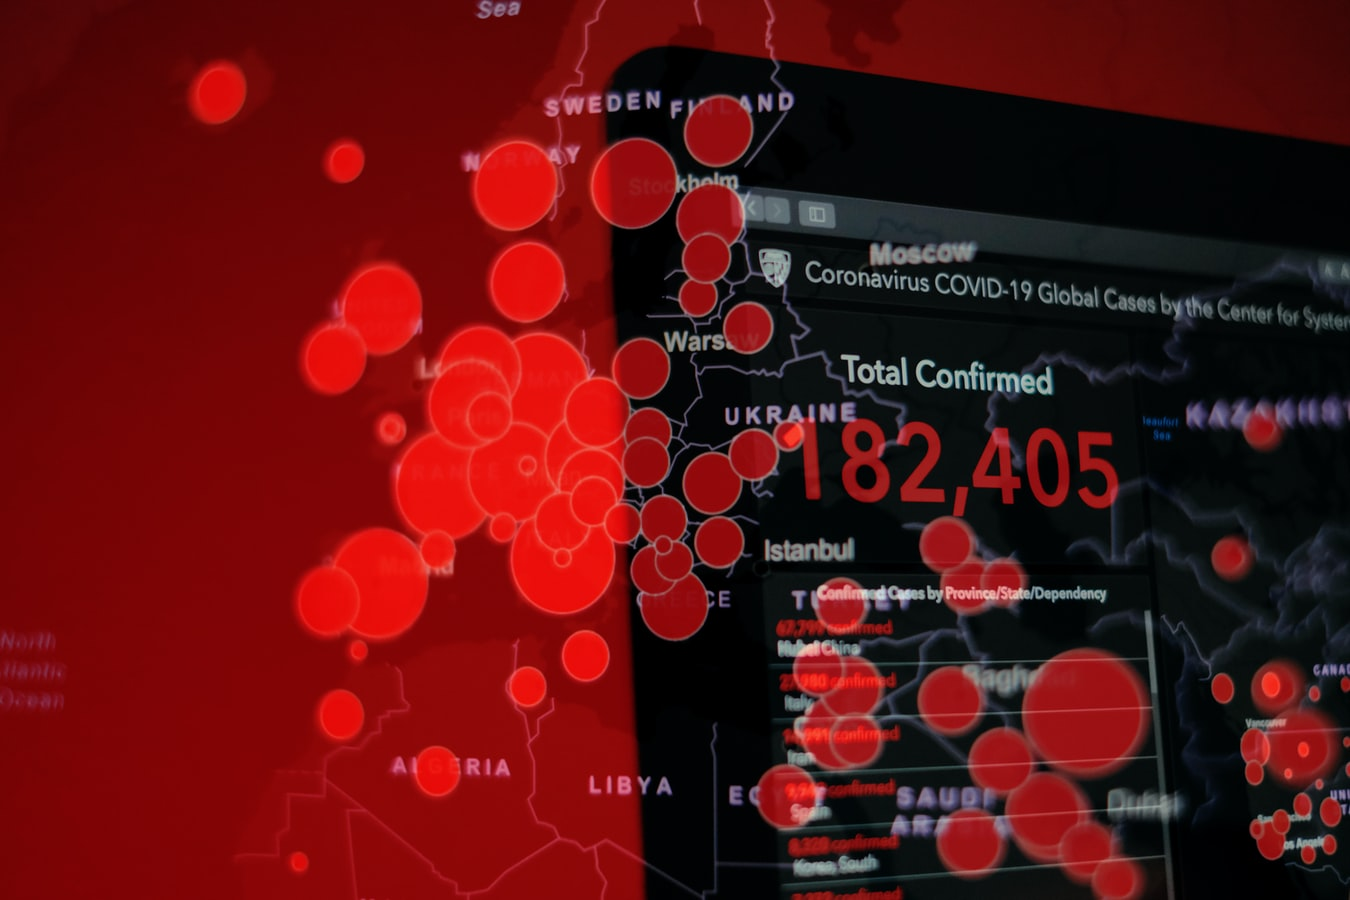
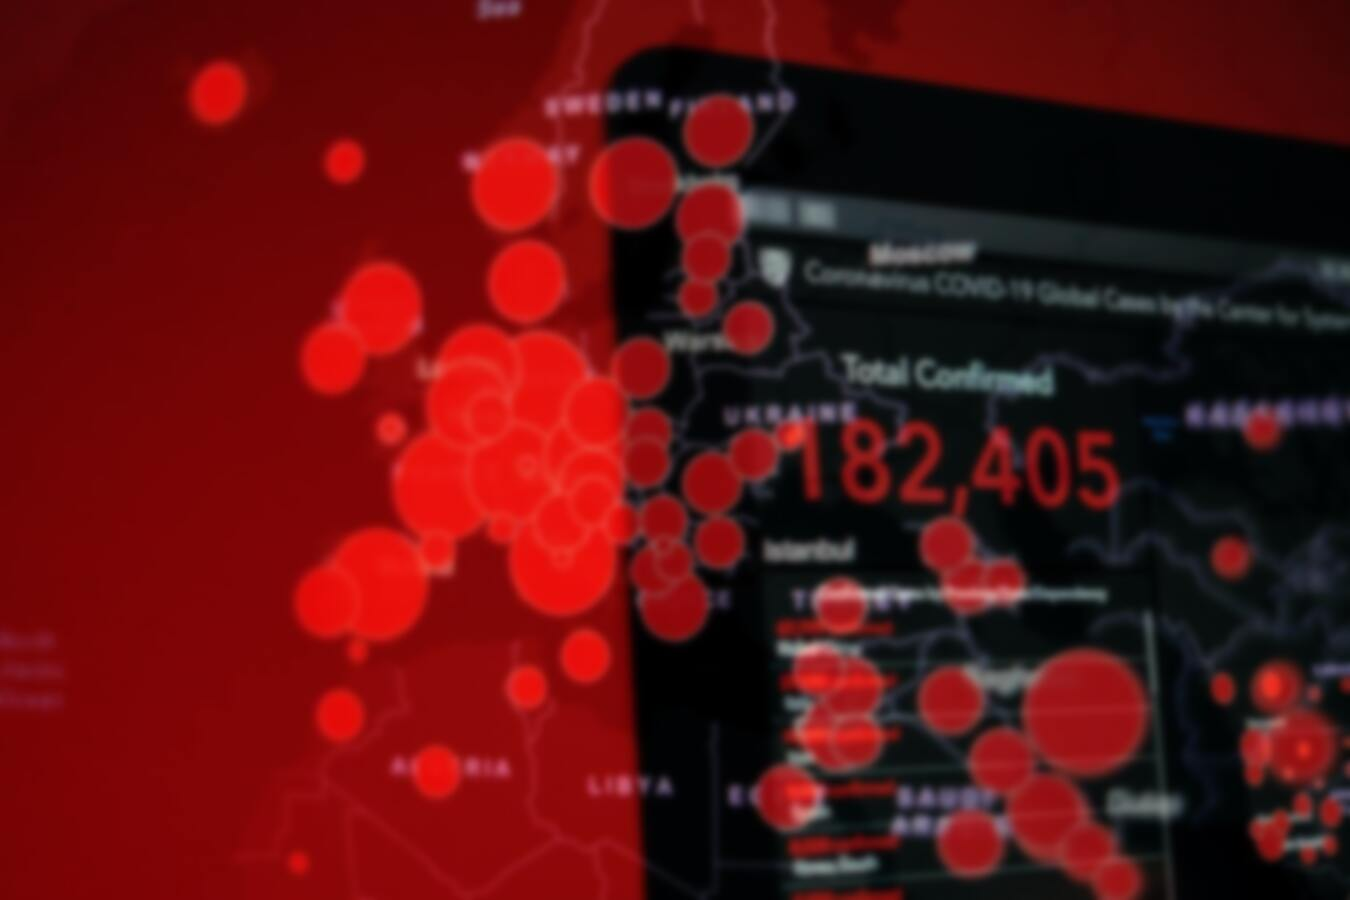
done home page

diff --git a/static/styles/home.css b/static/styles/home.css
@@ -2,10 +2,9 @@
     height: 100%;
 }
 
-
 .bg-img {
   
-
+  background-image: url("../pictures/covid background 5.jpg");
   min-height: 1000px;
 
   background-position: center center;
@@ -14,10 +13,10 @@
   background-attachment: fixed;
   position: relative;
 
-  filter: blur(5px);
-  -webkit-filter: blur(5px);
+
 
 }
+
 
 
 .responsive {
@@ -25,12 +24,36 @@
   height: auto;
 }
 
+.nav_container {
+  position: absolute;
+  margin: 20px;
+  width: auto;
+  
+}
 
+.topnav {
+  margin-left: 1365px;
+  margin-top: 17px;
+  background-color: black;
+  overflow: hidden;
+  
+}
+
+
+.topnav a {
+  
+  font-family: 'Bebas Neue', cursive;
+  font-size: 70px;
+  color: white;
+  text-align: center;
+  padding: 35px 16px;
+  text-decoration:none;
+}
 
 .container{
-    position: relative;
-    text-align: center;
-    color: black;
+  position: relative;
+  text-align: center;
+  color: black;
 }
 
 .maintitle {
@@ -45,10 +68,39 @@
     color: white;
 }
 
-.mainheading {
-    font-size: 80px;
-    top:60%;
-    font-family: 'Bebas Neue', cursive;
-    margin: 0;
-    position: absolute;
+.medical_supps {
+  font-size: 120px;
+  font-family: 'Bebas Neue', cursive;
+  margin: 0;
+  position: absolute;
+  text-align: center;
+  top: 45%;
+  transform: translateY(-50%);
+  width: 100%;
+  color: white;
 }
+
+.ruhacks {
+  font-size: 120px;
+  font-family: 'Bebas Neue', cursive;
+  margin: 0;
+  position: absolute;
+  text-align: center;
+  top: 70%;
+  transform: translateY(-50%);
+  width: 100%;
+  color: white;
+}
+
+.names {
+  font-size: 120px;
+  font-family: 'Bebas Neue', cursive;
+  margin: 0;
+  position: absolute;
+  text-align: center;
+  top: 80%;
+  transform: translateY(-50%);
+  width: 100%;
+  color: white;
+}
+

diff --git a/templates/home.html b/templates/home.html
@@ -1,21 +1,36 @@
 <!DOCTYPE html>
 <html>
+
 <head>
     <meta charset="utf-8">
     <meta name="viewport" content="width=device-width, initial-scale=1, shrink-to-fit=no">
 
-    <link rel= "stylesheet" type= "text/css" href= "static/styles/home.css">
+    <link rel="stylesheet" type="text/css" href="{{ url_for('static',filename='styles/home.css') }}">
     <link href="https://fonts.googleapis.com/css2?family=Bebas+Neue&display=swap" rel="stylesheet">
 
 
 </head>
+
 <body>
 
+
+
+
     <div class="container">
-        <img src="static/pictures/covid background 5.jpg" class="bg-img responsive"></img>
-        <img src="static/pictures/warning 1.png"></img>
+        <div class="bg-img responsive">
+            <div class="nav_container">
+                <nav>
+                    <div class="topnav the-blur">
+                        <a href="{{ url_for('inventory')}}">INVENTORY</a>
+                        <a href="{{ url_for('about') }}">ABOUT</a>
+                    </div>
+                </nav>
+            </div>
+        </div>
         <div class="maintitle">COVID-19</div>
-        
+        <div class="medical_supps">MEDICAL SUPPLY INVENTORY MANAGEMENT</div>
+        <div class="ruhacks">CREATED FOR RUHACKS 2020</div>
+        <div class="names">BY: AREEZ VISRAM & NEIL LOBO</div>
     </div>
 
 

diff --git a/templates/about.html b/templates/about.html
@@ -1,0 +1,1 @@
+<h1>asdasd</h1>

diff --git a/templates/inventory.html b/templates/inventory.html
@@ -1,0 +1,1 @@
+<h1>asdsa</h1>
